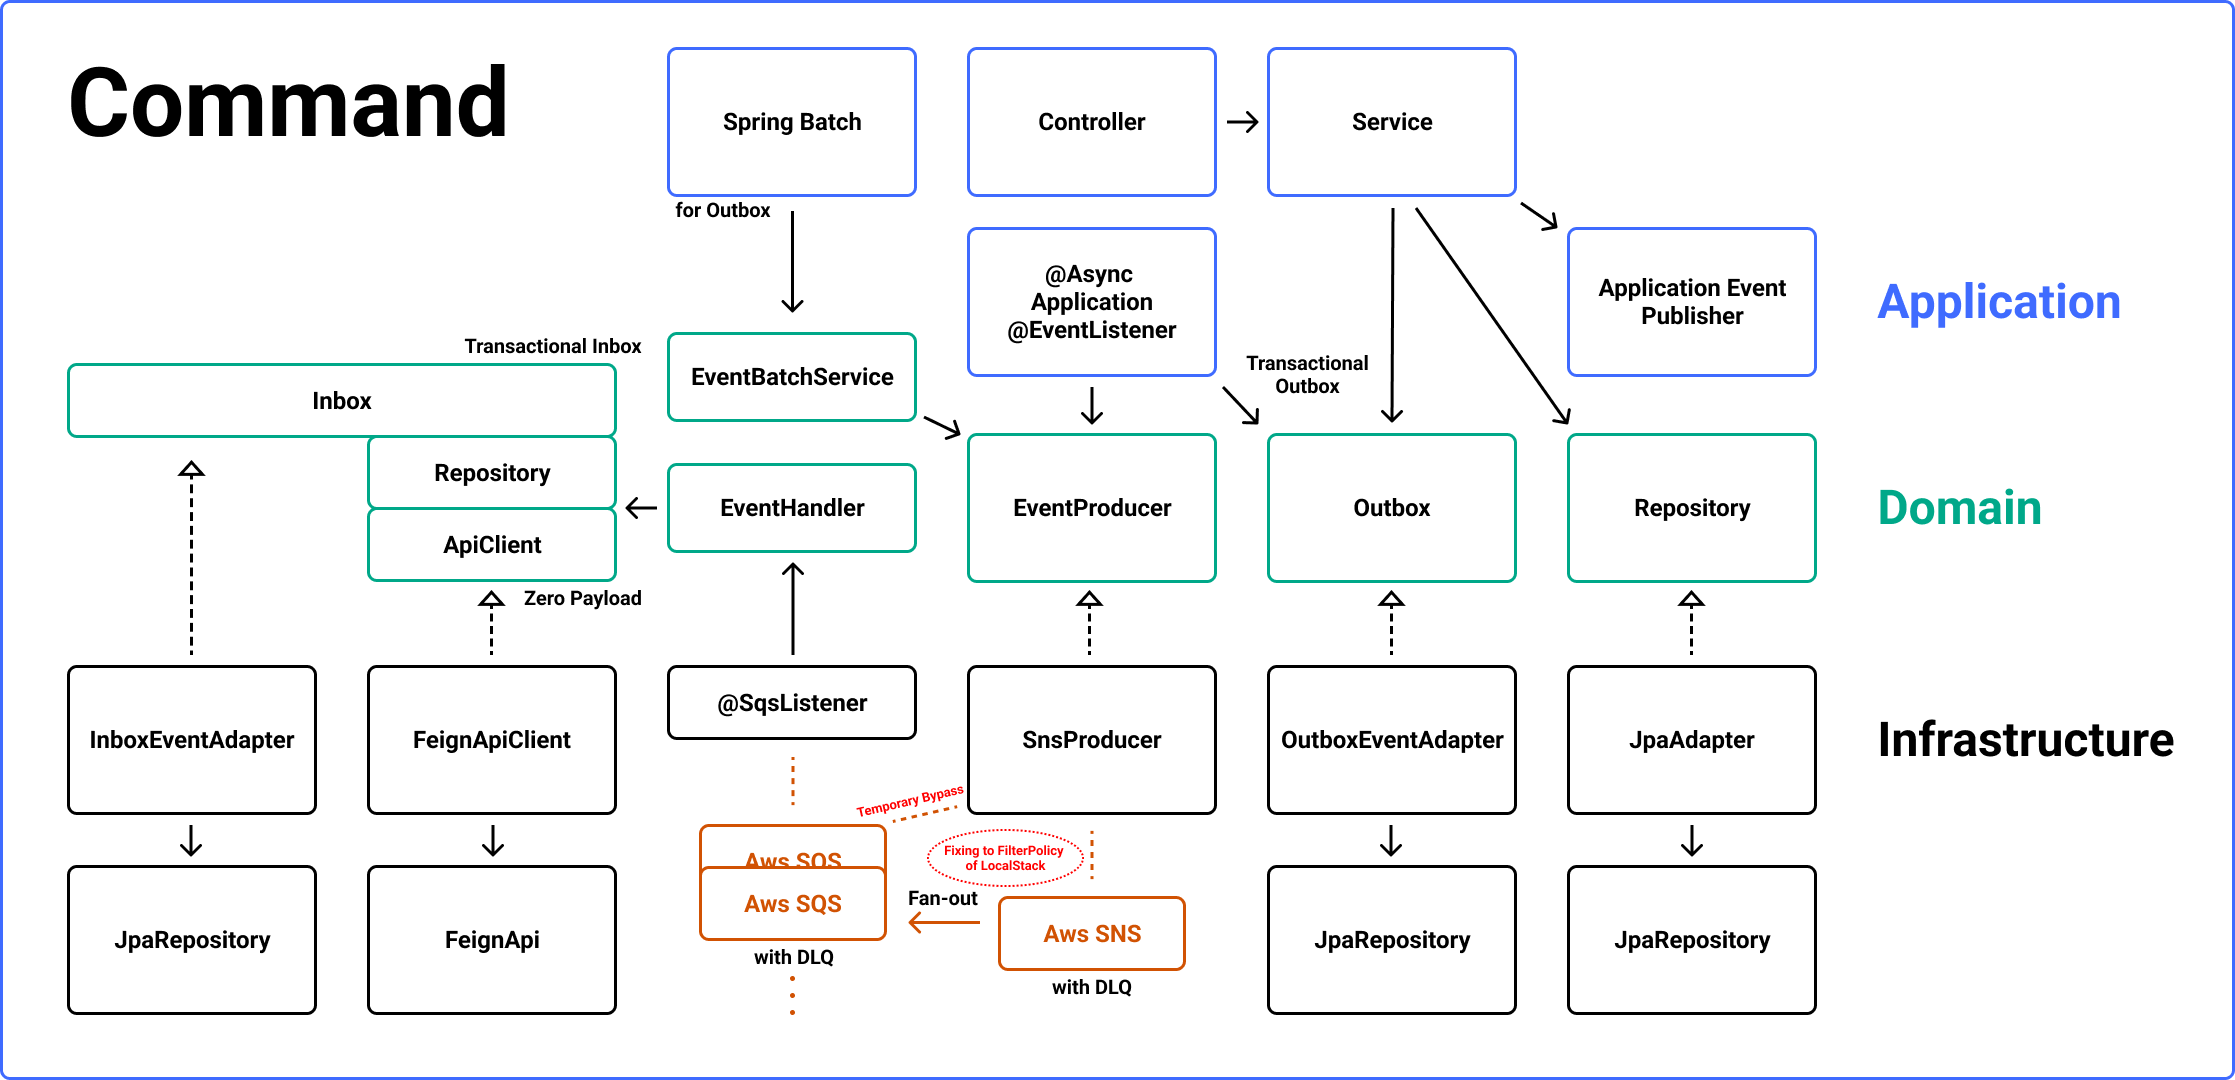
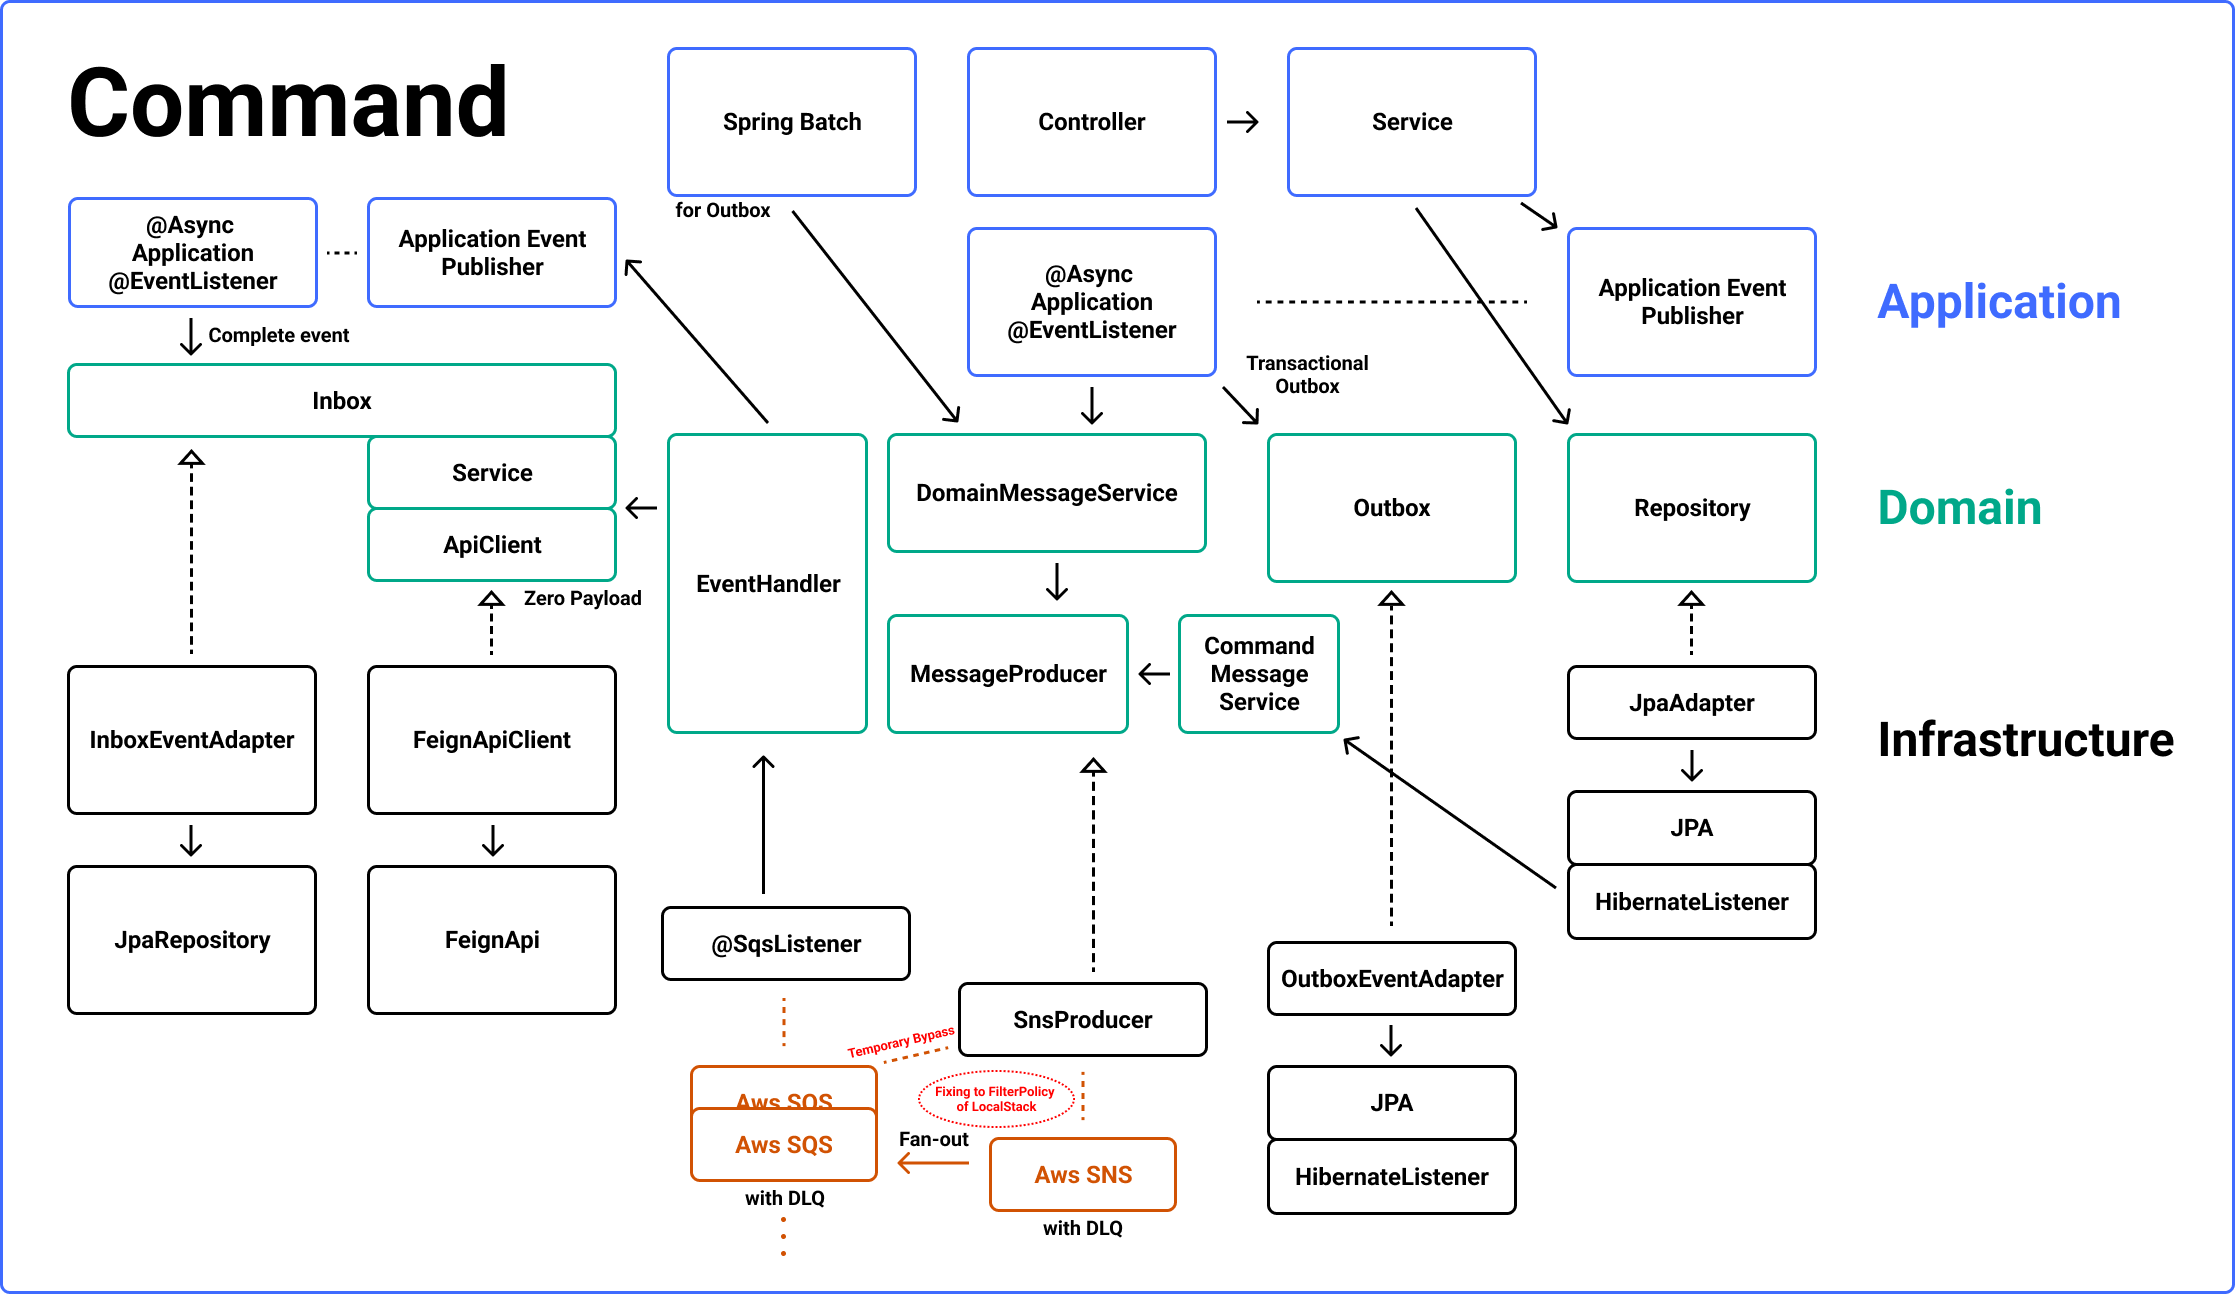
docs: update command.png

diff --git a/module-infrastructure/db-command-mysql/src/main/java/com/example/spring/infrastructure/db/command/CommandPostInsertEventListener.java b/module-infrastructure/db-command-mysql/src/main/java/com/example/spring/infrastructure/db/command/CommandPostInsertEventListener.java
@@ -9,17 +9,17 @@ import org.springframework.stereotype.Component;
 
 @Component
 public class CommandPostInsertEventListener implements PostInsertEventListener {
-    private final CommandMessageService outboxService;
+    private final CommandMessageService messageService;
 
-    public CommandPostInsertEventListener(CommandMessageService outboxService) {
-        this.outboxService = outboxService;
+    public CommandPostInsertEventListener(CommandMessageService messageService) {
+        this.messageService = messageService;
     }
 
     @Async
     @Override
     public void onPostInsert(PostInsertEvent event) {
         final Object e = event.getEntity();
-        if (e instanceof BaseCommandEntity) outboxService.sendCreateType(((BaseCommandEntity) e).getCommand());
+        if (e instanceof BaseCommandEntity) messageService.sendCreateType(((BaseCommandEntity) e).getCommand());
     }
 
     @Override

diff --git a/module-infrastructure/db-event-mysql/src/main/java/com/example/spring/infrastructure/db/event/outbox/OutboxPostUpdateEventListener.java b/module-infrastructure/db-event-mysql/src/main/java/com/example/spring/infrastructure/db/event/outbox/OutboxPostUpdateEventListener.java
@@ -1,5 +1,6 @@
 package com.example.spring.infrastructure.db.event.outbox;
 
+import com.example.spring.domain.event.DomainEvent;
 import com.example.spring.domain.event.QueryInboxService;
 import org.hibernate.event.spi.PostUpdateEvent;
 import org.hibernate.event.spi.PostUpdateEventListener;
@@ -17,7 +18,10 @@ public class OutboxPostUpdateEventListener implements PostUpdateEventListener {
     @Override
     public void onPostUpdate(PostUpdateEvent event) {
         final Object e = event.getEntity();
-        if (e instanceof OutboxEventEntity) inboxService.create(((OutboxEventEntity) e).toModel());
+        if (e instanceof OutboxEventEntity) {
+            final DomainEvent domainEvent = ((OutboxEventEntity) e).toModel();
+            if (domainEvent.completed()) inboxService.create(domainEvent);
+        }
     }
 
     @Override
